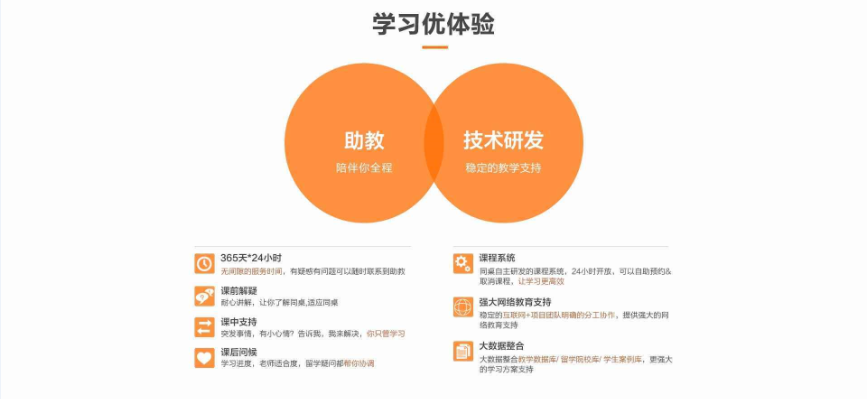
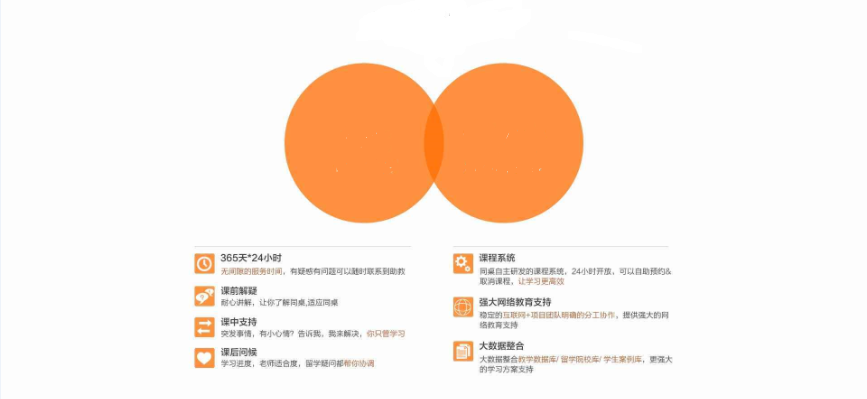
add

Changed region(s): [[0.4048, 0.0301, 0.5917, 0.1504], [0.5294, 0.3308, 0.6228, 0.4511], [0.3737, 0.3308, 0.4671, 0.4511]]

diff --git a/o/首页.html b/o/首页.html
@@ -87,14 +87,90 @@
 
 
 
-    <div class="index-banner">
+    <div class="index-banner index-banner-add">
         <img src="./imgs/1232142147205812.png" alt="">
+        <div class="class-value-has">
+                课程有价值
+            <div class="border-lin-bot"></div>
+        </div>
+        <div class="radius-txt-wrap">
+            <div class="left-ra">
+                <div class="big">教学理念</div>
+                <div class="small">效果导向</div>
+            </div>
+            <div class="right-ra">
+                <div class="big">老师更专业</div>
+                <div class="small">学习更高效！</div>
+            </div>
+        </div>
 
-        
+        <div class="radius-txt-detail-wrap">
+            <div class="left">
+                <div class="icon--and-txt">
+                    
+                    <i class="icon-le"></i>
+                    <div class="cc">
+                    <p class="big">雅思学习</p>
+                    <p class="small">根据学生的具体情况，制定科学的课程计划。只考虑达分与否不考虑上课数</p>
+                    </div>
+                </div>
+                <div class="icon--and-txt">
+                    
+                    <i class="icon-le"></i>
+                    <div class="cc">
+                    <p class="big">留学申请</p>
+                    <p class="small">offer不在多，好的适合一个就够，我们追求这“一个”最优选择，为你分析和制定留学方案，助你拿到心愿offer</p>
+                    </div>
+                </div>
+            </div>
+            <div class="right">
+                <div class="icon--and-txt">
+                    
+                    <i class="icon-le"></i>
+                    <div class="cc">
+                    <p class="big">严格筛选培训候选人</p>
+                    <p class="small">经过面试，测验学习能力，模拟测试的三轮考核，层层淘汰制，最后剩下不到10%的培训候选人</p>
+                    </div>
+                </div>
+                <div class="icon--and-txt">
+                    
+                    <i class="icon-le"></i>
+                    <div class="cc">
+                    <p class="big">60天全能培训</p>
+                    <p class="small">offer不在多，好的适合一个就够，我们追求这“一个”最优选择，为你分析和制定留学方案，助你拿到心愿offer</p>
+                    </div>
+                </div>
+                <div class="icon--and-txt">
+                    
+                    <i class="icon-le"></i>
+                    <div class="cc">
+                    <p class="big">岗位季度考核</p>
+                    <p class="small">offer不在多，好的适合一个就够，我们追求这“一个”最优选择，为你分析和制定留学方案，助你拿到心愿offer</p>
+                    </div>
+                </div>
+            </div>
+        </div>
     </div>
 
     <div class="index-banner">
         <img src="./imgs/1124331242343242.png" alt="">
+        <div class="class-value-has-jj">
+                学习优体验
+            <div class="border-lin-bot"></div>
+        </div>
+        <div class="radius-txt-wrap" id="change-top">
+            <div class="left-ra">
+                <div class="big">助教</div>
+                <div class="small">陪伴你全程</div>
+            </div>
+            <div class="right-ra">
+                <div class="big">技术研发</div>
+                <div class="small">稳定的教学支持</div>
+            </div>
+        </div>
+
+
+
     </div>
 
     <div class="index-banner">

diff --git a/o/css/style.css b/o/css/style.css
@@ -2230,3 +2230,151 @@ a:hover{
 	background-image: url(../imgs/123213121128213100.png);
 	background-size: 100% 100%;
 }
+
+.class-value-has{
+	width: 100%;
+	text-align: center;
+	position: absolute;
+	top: 10%;
+	font-size: 28px;
+	font-weight: bold; 
+}
+
+.border-lin-bot{
+	width: 7%;
+	margin: 0 auto;
+	margin-top: 5px;
+	border-bottom: 3px solid rgb(255,143,65);
+}
+.radius-txt-wrap{
+	position: absolute;
+	top: 34%;
+	text-align: center;
+	width: 100%;
+}
+
+.radius-txt-wrap .left-ra{
+	text-align: right;
+	width: 50%;
+	float: left;
+	padding-right: 3%;
+}
+.radius-txt-wrap .left-ra .big{
+	font-weight: bold;
+	font-size: 35px;
+	color: rgb(255,255,255);
+}
+
+.radius-txt-wrap .left-ra .small{
+	font-weight: bold;
+	font-size: 13px;
+	height: 40px;
+	line-height: 40px;
+	padding-right: 6%;
+	color: rgb(255,255,255);
+}
+.radius-txt-wrap .right-ra{
+	width: 50%;
+	float: right;
+	text-align: left;
+	padding-left: 2%;
+}
+
+.radius-txt-wrap .right-ra .big{
+	font-weight: bold;
+	font-size: 28px;
+	color: rgb(255,143,65);
+	margin-bottom: 5px;
+}
+.radius-txt-wrap .right-ra .small{
+	font-weight: bold;
+	font-size: 28px;
+	color: rgb(255,143,65);
+}
+.radius-txt-detail-wrap{
+	position: absolute;
+	width: 56%;
+	top: 65%;
+	left: 22%;
+	font-weight: bold;
+}
+.radius-txt-detail-wrap p{
+	margin: 0px;
+}
+.radius-txt-detail-wrap .icon-le{
+	margin-top: 4px;
+	width: 30px;
+	height: 30px;
+	display: inline-block;
+	vertical-align: top;
+	background-image: url(../imgs/123123124132.png);
+}
+.radius-txt-detail-wrap .left{
+	width:50%;
+	float: left;
+}
+.radius-txt-detail-wrap .cc{
+	display: inline-block;
+	vertical-align: middle;
+	width: 80%;
+}
+
+.radius-txt-detail-wrap .right{
+	width:46%;
+	float: right;	
+}
+
+.radius-txt-detail-wrap .cc .big{
+	font-size: 16px;
+	margin-bottom: 4px;
+}
+
+.radius-txt-detail-wrap .icon--and-txt{
+	width: 355px;
+	text-align: left;
+	margin-bottom: 8px;
+	margin-top: 5px;
+}
+
+.index-banner-add{
+	margin-bottom: 50px;
+}
+
+
+.class-value-has-jj{
+	width: 100%;
+	text-align: center;
+	position: absolute;
+	top: 2%;
+	font-size: 35px;
+	font-weight: bold; 
+}
+
+#change-top{
+	top: 30%;
+}
+
+#change-top .right-ra .big{
+	color: rgb(255,255,255);
+}
+
+#change-top .right-ra .small{
+	color: rgb(255,255,255);
+	font-size: 18px;
+}
+
+#change-top  .left-ra{
+	padding-right: 5%;
+}
+#change-top .left-ra .small{
+	padding-right: 0px;
+	font-size: 16px;
+}
+
+#change-top .left-ra .big{
+	padding-right: 5px;
+}
+
+#change-top .right-ra{
+	padding-left: 4%;
+}
